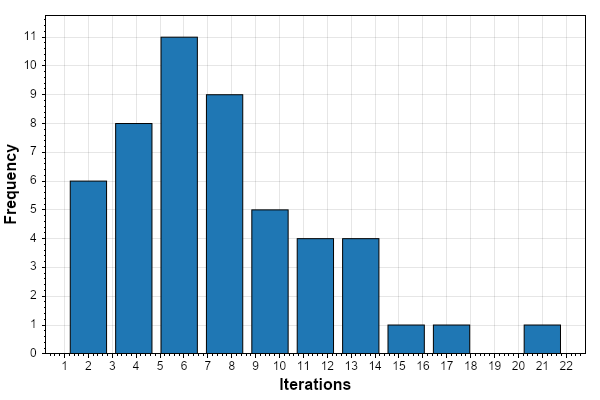
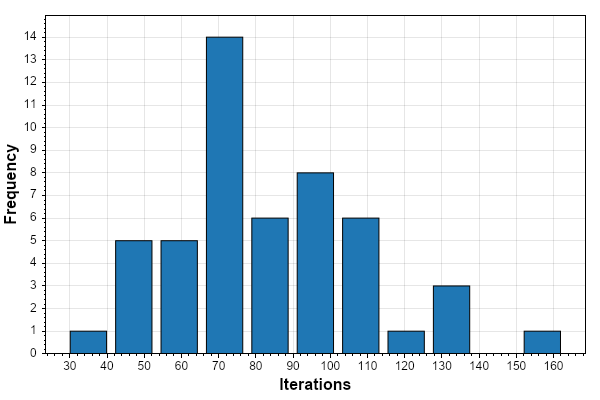
removed clutter objects

diff --git a/Program.cs b/Program.cs
@@ -17,10 +17,10 @@ namespace firefly_algo {
             double searchSpaceMax = 5;
 
 
-            double[] parametervalues = [0.1, 1, 5];
+            double[] parametervalues = [0.1, 0.5, 1];
             for (int experimentNumber = 0; experimentNumber < 3; experimentNumber++) {
                 int[] results = new int[numberOfRuns];
-                absorption = parametervalues[experimentNumber];
+                attractiveness = parametervalues[experimentNumber];
                 for (int i = 0; i < numberOfRuns; ++i) {
                     var algorithm = new FireflyAlgorithm(populationSize, dimensionality, searchSpaceMin, searchSpaceMax, attractiveness, absorption, randomizationFactor, epsilon);
                     results[i] = algorithm.SimulateMovement(maxIterations);
